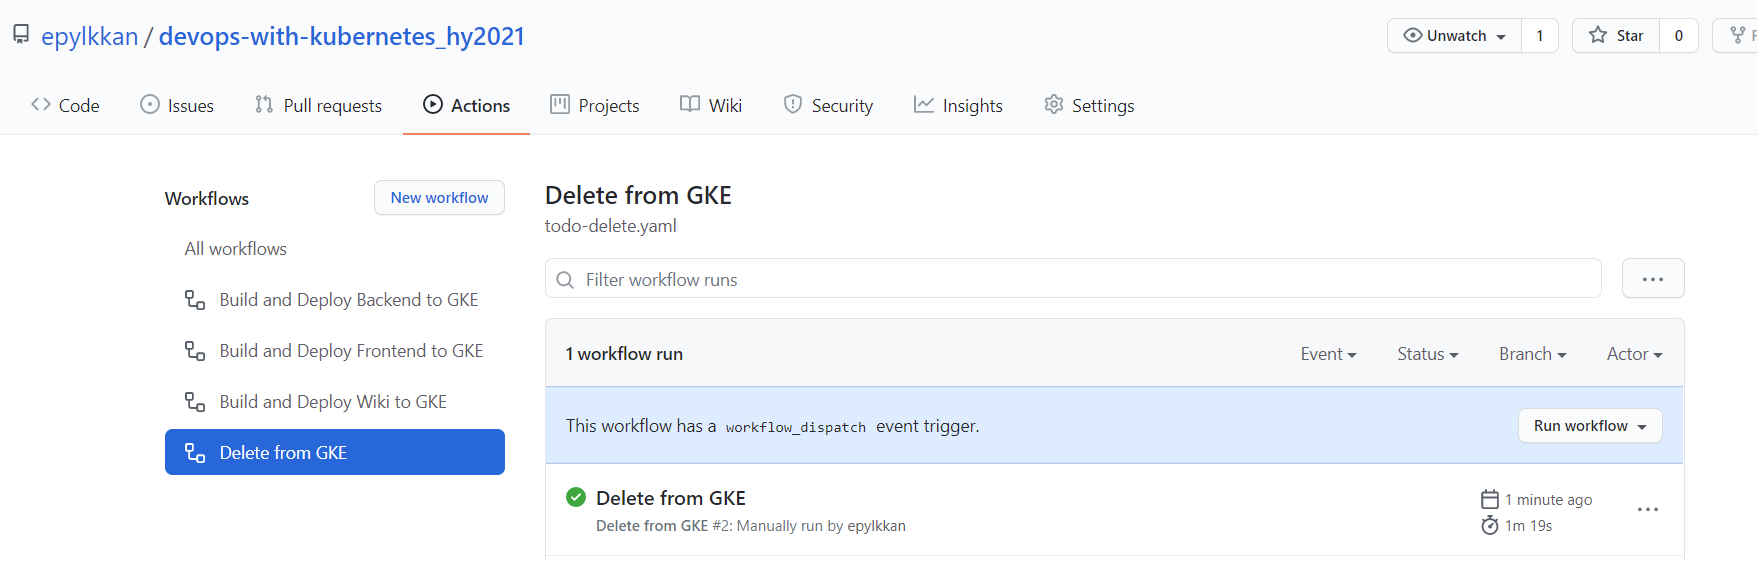
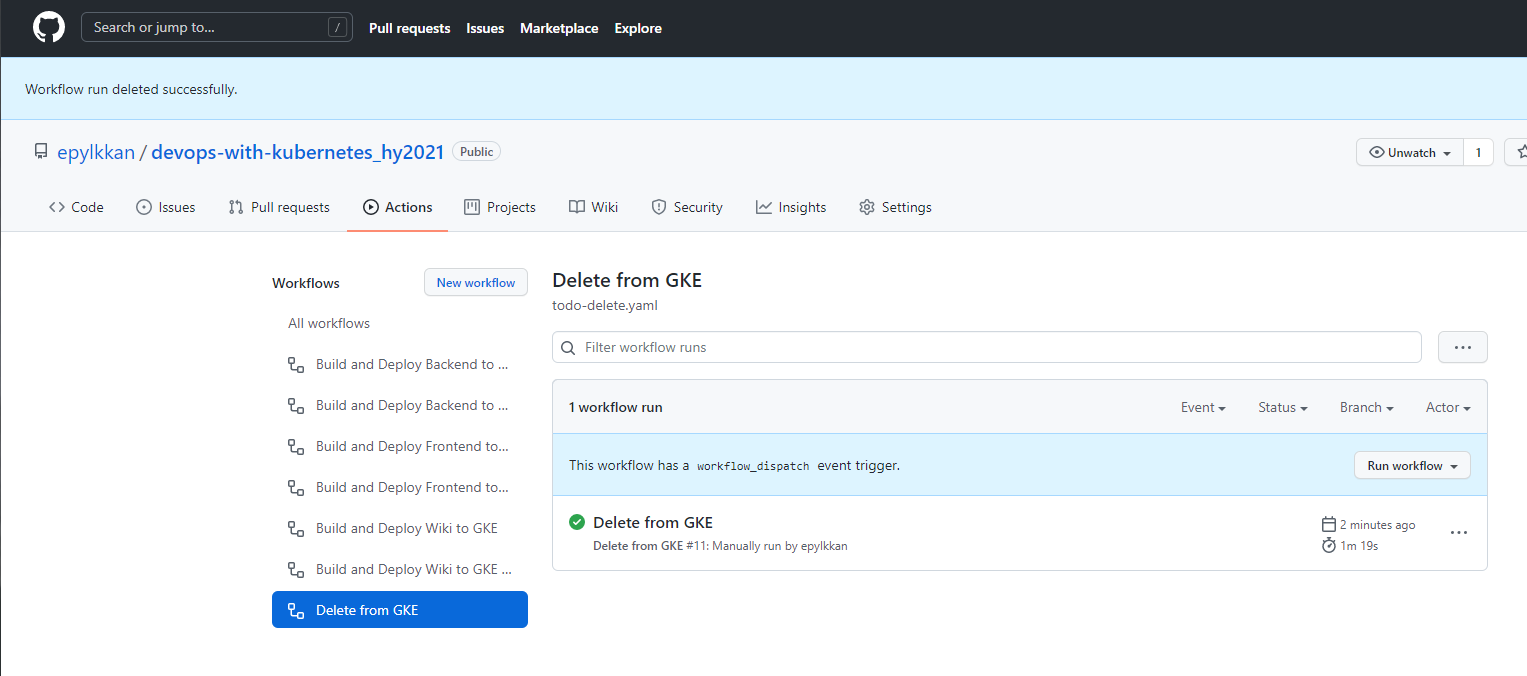
nineteenth version

diff --git a/part3/3.05/README.md b/part3/3.05/README.md
@@ -1,5 +1,10 @@
 <h2>GENERAL</h2>
 
+Namespace "main" services deleted  'kubectl delete namespace ${GITHUB_REF#refs/heads/} || true'
+
+Deployment and services in the namespace "todo" remain.
+
+
 See, the pictures
 
 Changes to 3.04: added to todo-delete.yaml in .github/workflows.
